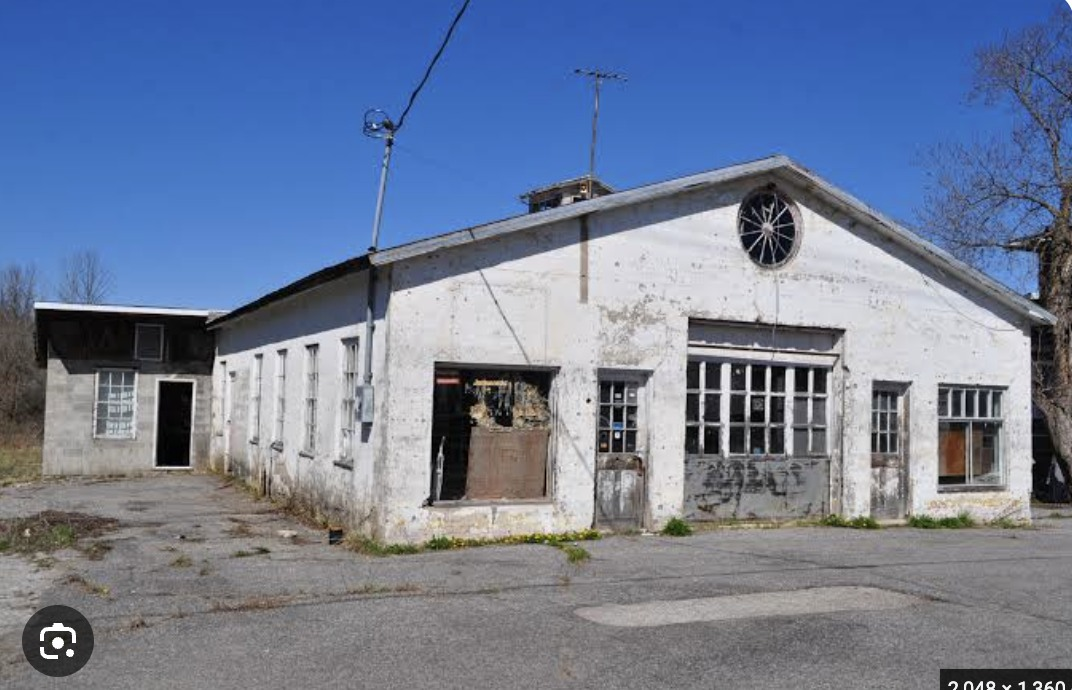
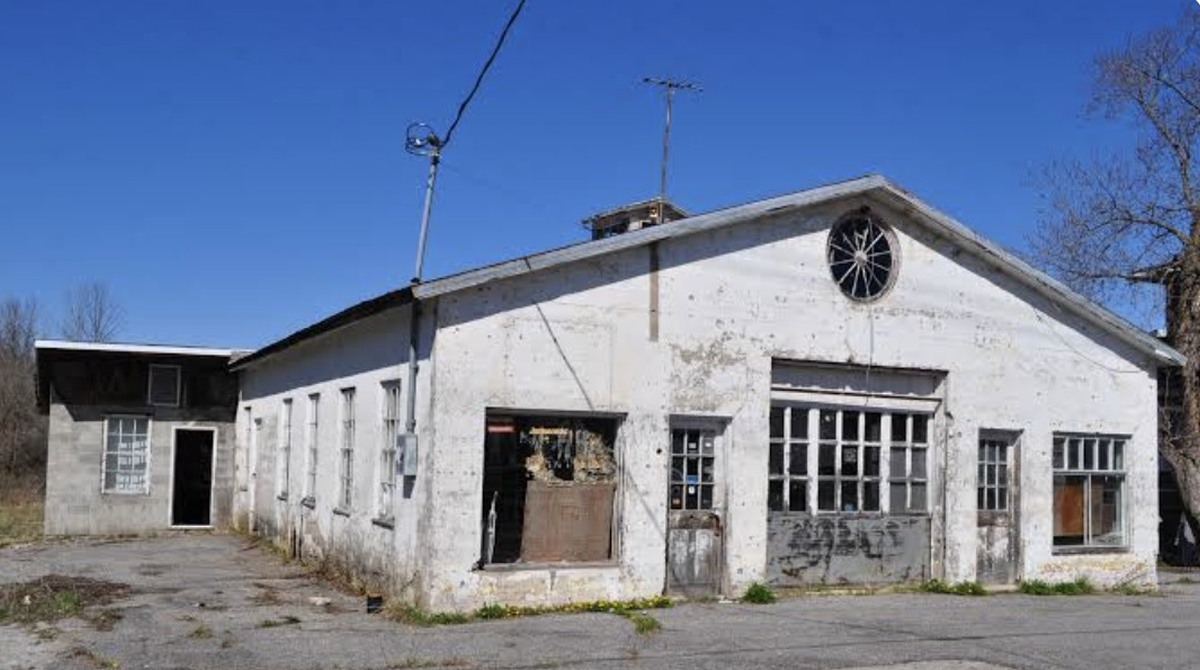
Add files via upload

diff --git a/visualize.html b/visualize.html
@@ -435,11 +435,18 @@
 
 </section>
 
+<style>
+/* Project 6 only: two edge-to-edge layers with identical geometry. */
+.project-six .comparison-before,
+.project-six .comparison-after img {
+  width:100%;height:100%;object-fit:cover;object-position:center center;
+}
+</style>
 <!-- ========================================
      PROJECT 6
      ======================================== -->
 
-<section class="visualization-project">
+<section class="visualization-project project-six">
 
   <div class="project-heading">
 
